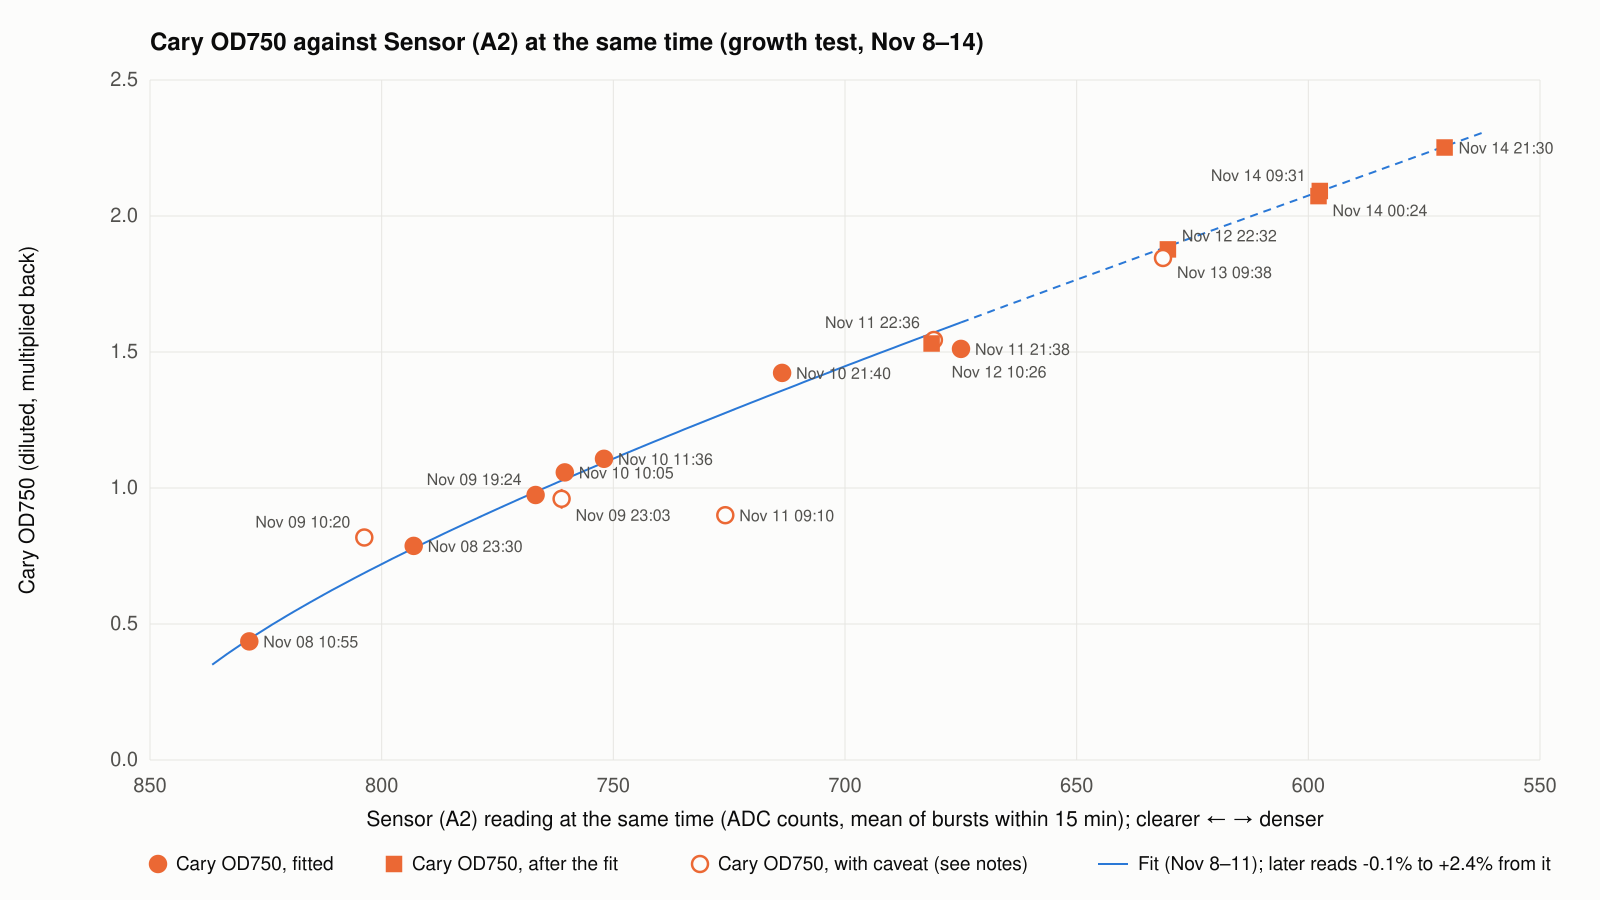
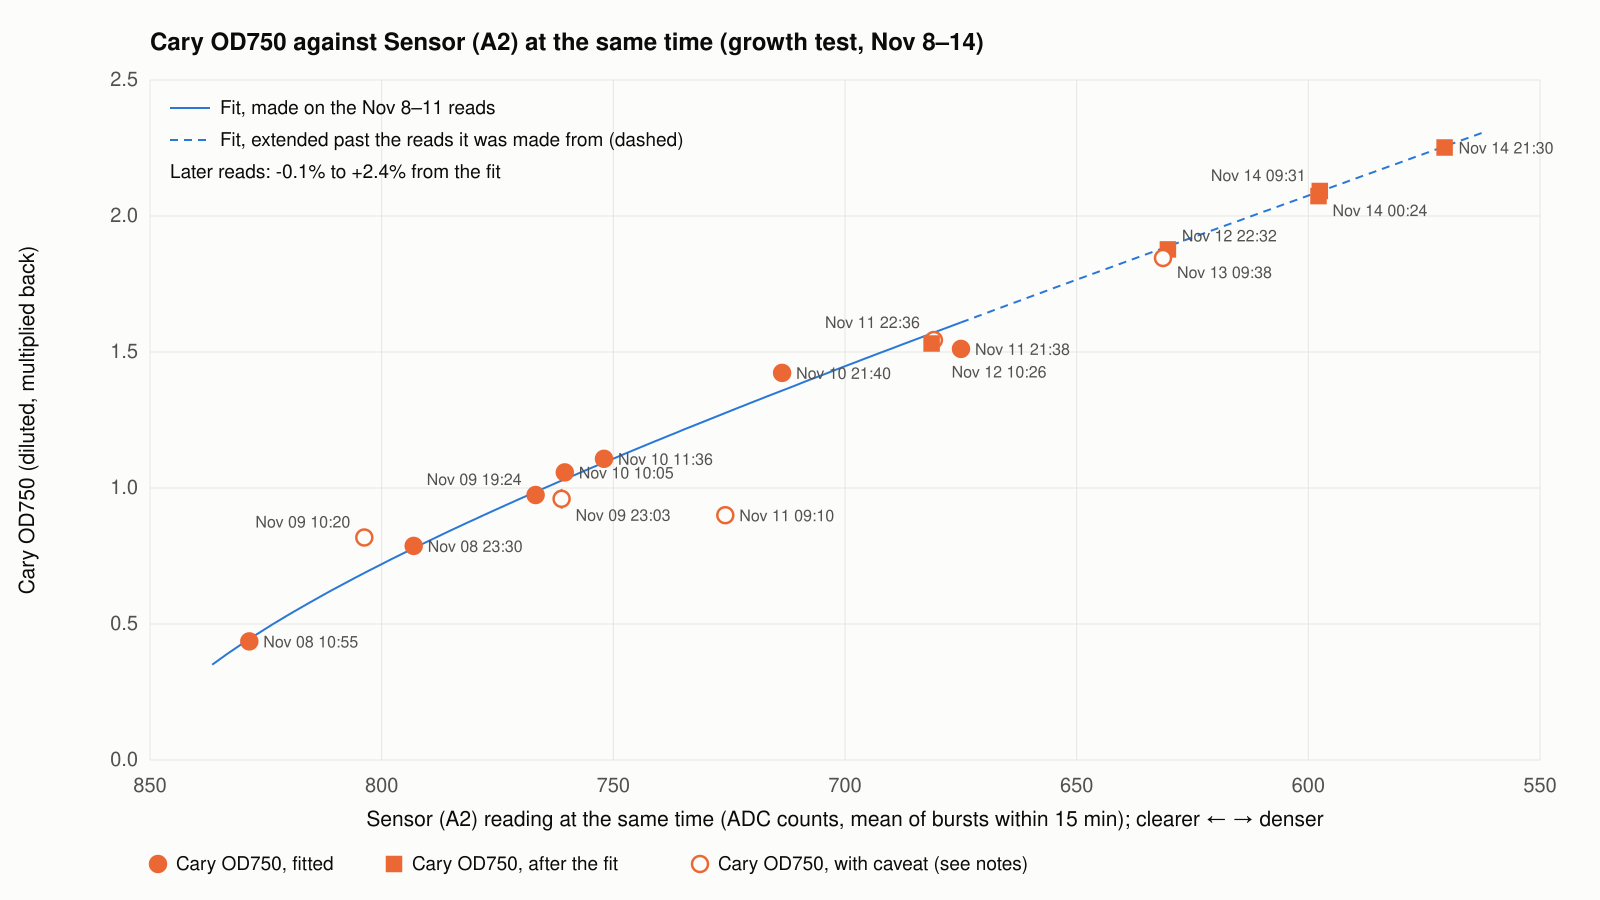
docs(bench): label the dashed part of the agreement fit
The fit's legend now names the solid line as the fit made on the
Nov 8-11 reads and the dashed line as the same fit extended past them,
so the dashes no longer read as missing data.

Changed region(s): [[0.0938, 0.0933, 0.4062, 0.2178], [0.7188, 0.9333, 0.9688, 0.9644]]

diff --git a/data/bench/2026-11-05/figures/agreement_plot.py b/data/bench/2026-11-05/figures/agreement_plot.py
@@ -88,8 +88,14 @@ for kind, fill, label in items:
         svg.append(f'<rect x="{lx + 1}" y="{ly - 13}" width="14" height="14" fill="{fill}" stroke="{ORANGE}" stroke-width="2.5"/>')
     svg.append(f'<text x="{lx + 26}" y="{ly}" font-size="19" fill="{INK}">{label}</text>')
     lx += 26 + len(label) * 10 + 30
-svg.append(f'<line x1="{lx}" x2="{lx + 30}" y1="{ly - 6}" y2="{ly - 6}" stroke="{BLUE}" stroke-width="2"/>')
-svg.append(f'<text x="{lx + 40}" y="{ly}" font-size="19" fill="{INK}">Fit (Nov 8–11); later reads {min(pred) * 100:+.1f}% to {max(pred) * 100:+.1f}% from it</text>')
+# the fit's legend sits in the empty upper left of the plot, the markers' along the bottom
+for i, (dash, label) in enumerate(((None, "Fit, made on the Nov 8–11 reads"),
+                                   ("8 6", "Fit, extended past the reads it was made from (dashed)"))):
+    fy = T + 34 + i * 32
+    svg.append(f'<line x1="{L + 20}" x2="{L + 60}" y1="{fy - 6}" y2="{fy - 6}" stroke="{BLUE}" stroke-width="2"'
+               + (f' stroke-dasharray="{dash}"' if dash else "") + "/>")
+    svg.append(f'<text x="{L + 70}" y="{fy}" font-size="19" fill="{INK}">{label}</text>')
+svg.append(f'<text x="{L + 20}" y="{T + 34 + 2 * 32}" font-size="19" fill="{INK}">Later reads: {min(pred) * 100:+.1f}% to {max(pred) * 100:+.1f}% from the fit</text>')
 svg.append("</svg>")
 (HERE / "agreement.svg").write_text("\n".join(svg))
 print(f"fit OD = {k:.3f} * (-ln(counts/{CLEAR}))^{p:.3f} on {n} reads; residuals {min(resid) * 100:+.1f}% to {max(resid) * 100:+.1f}%;"
